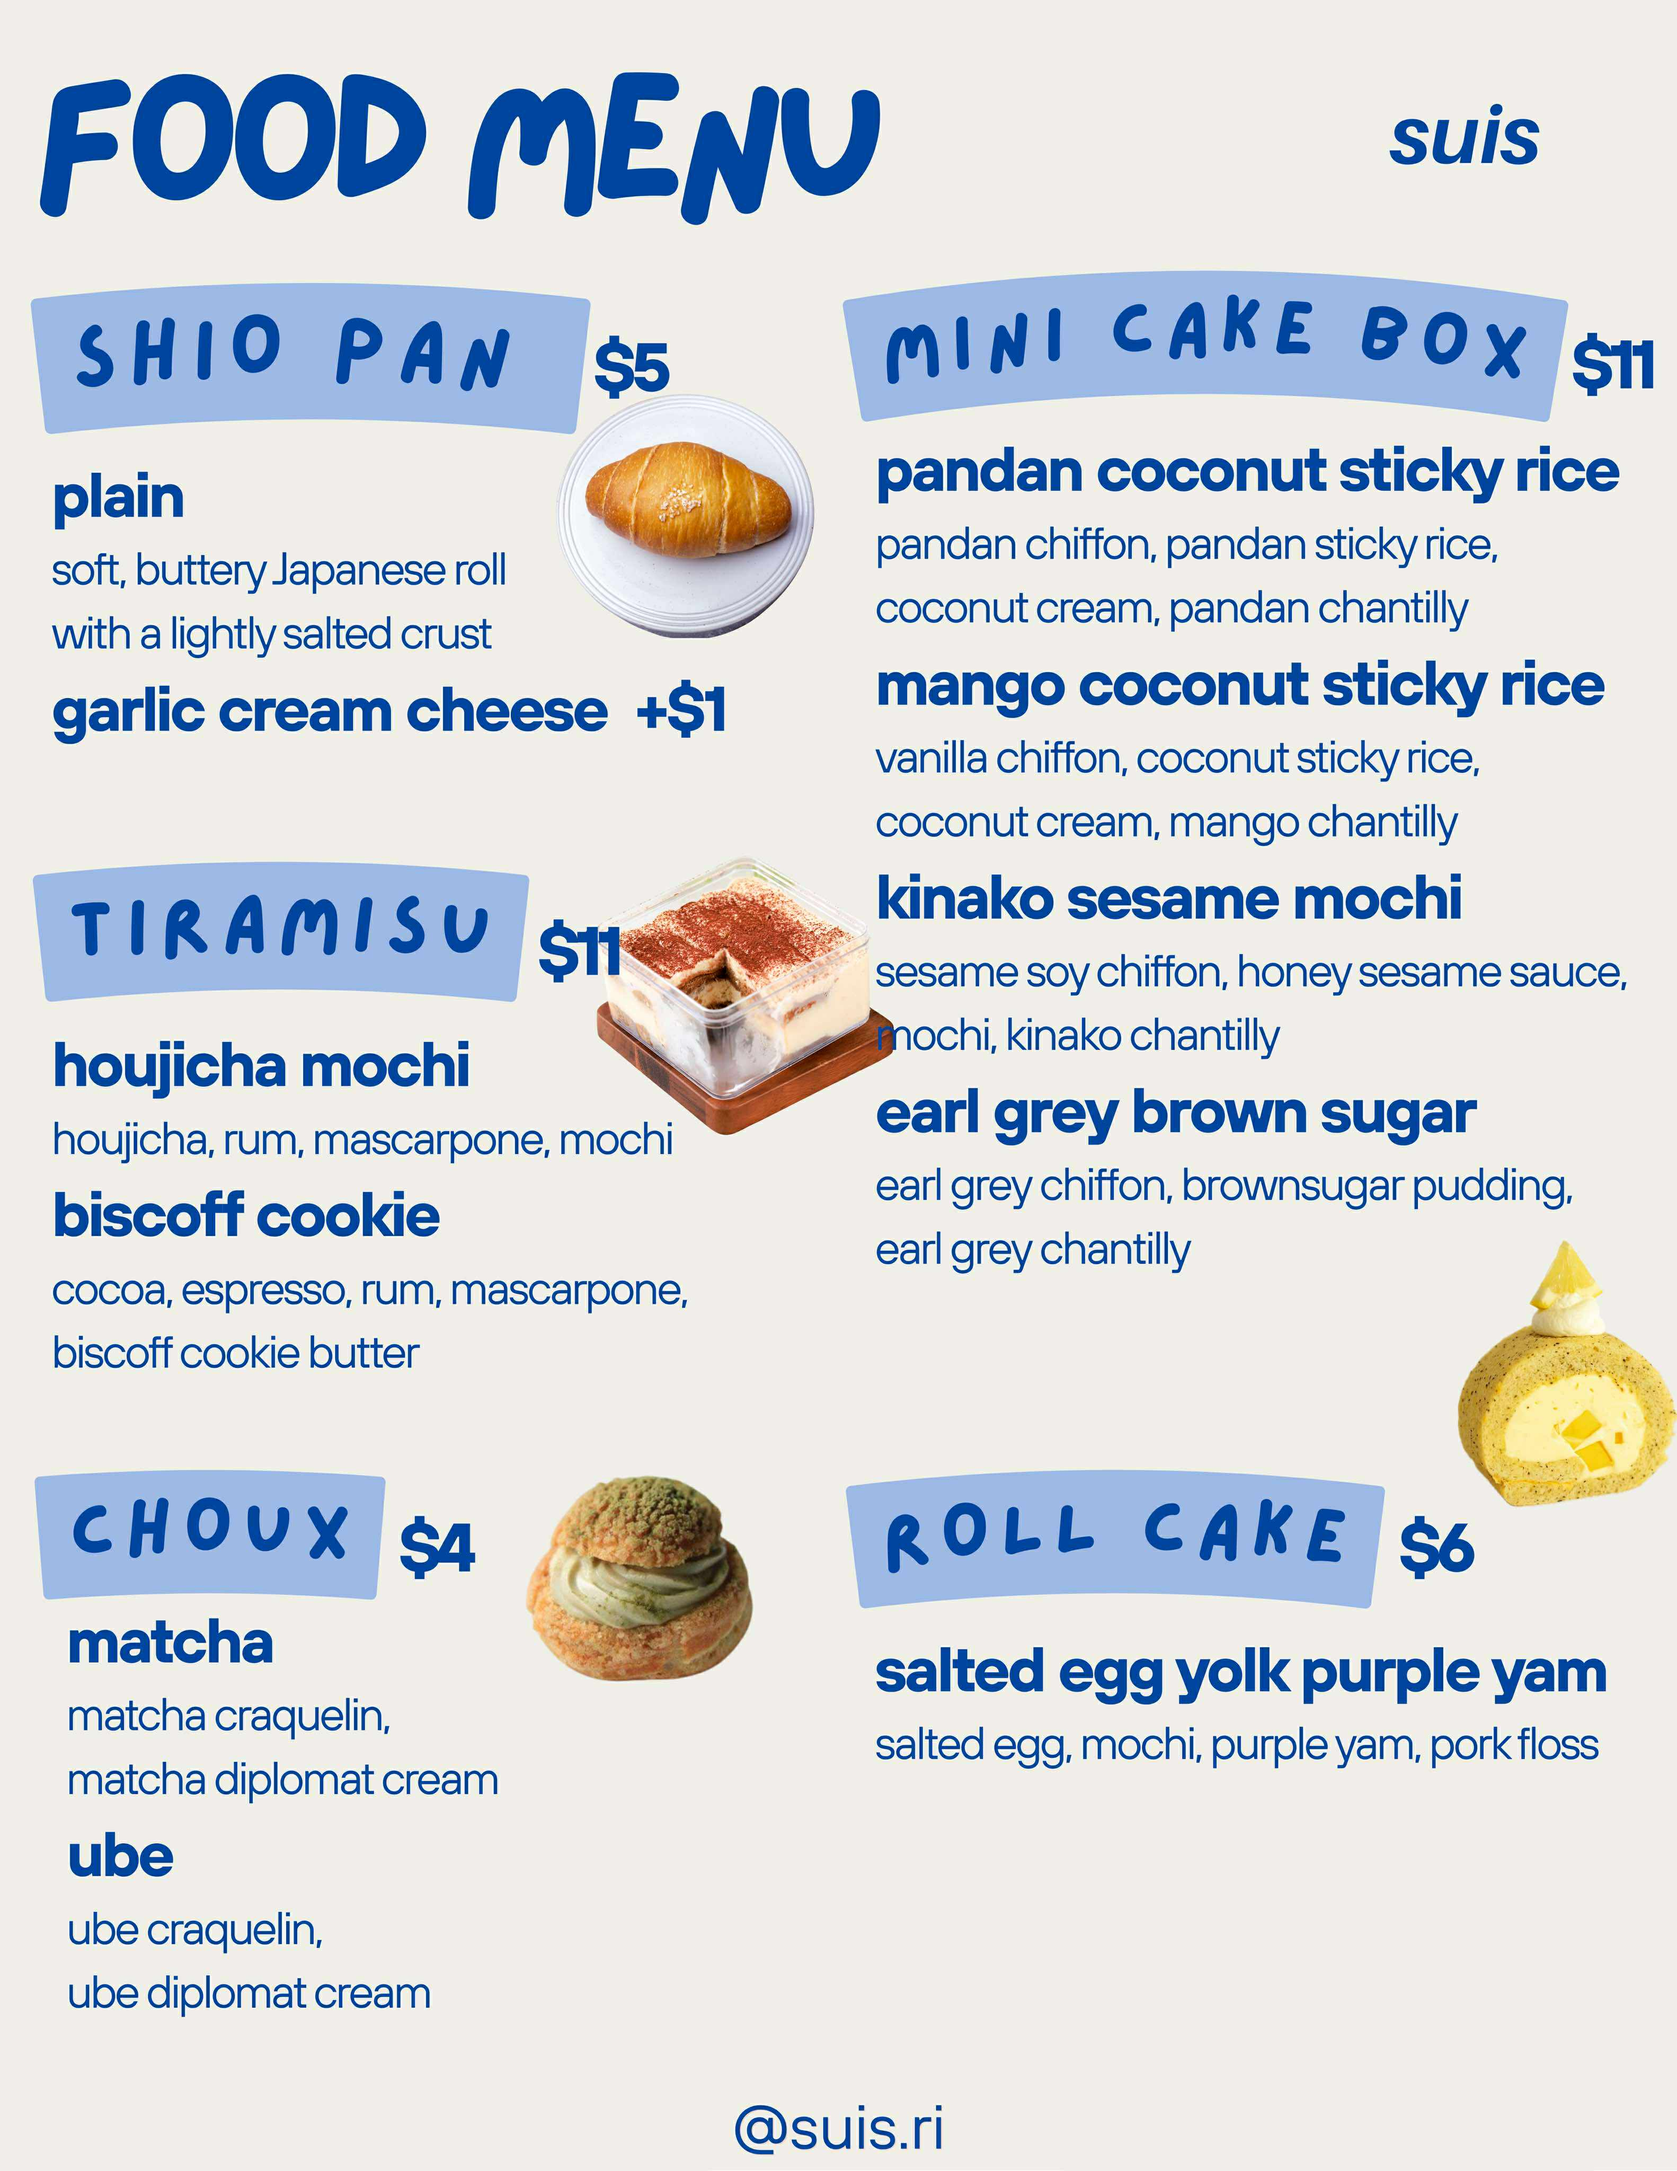
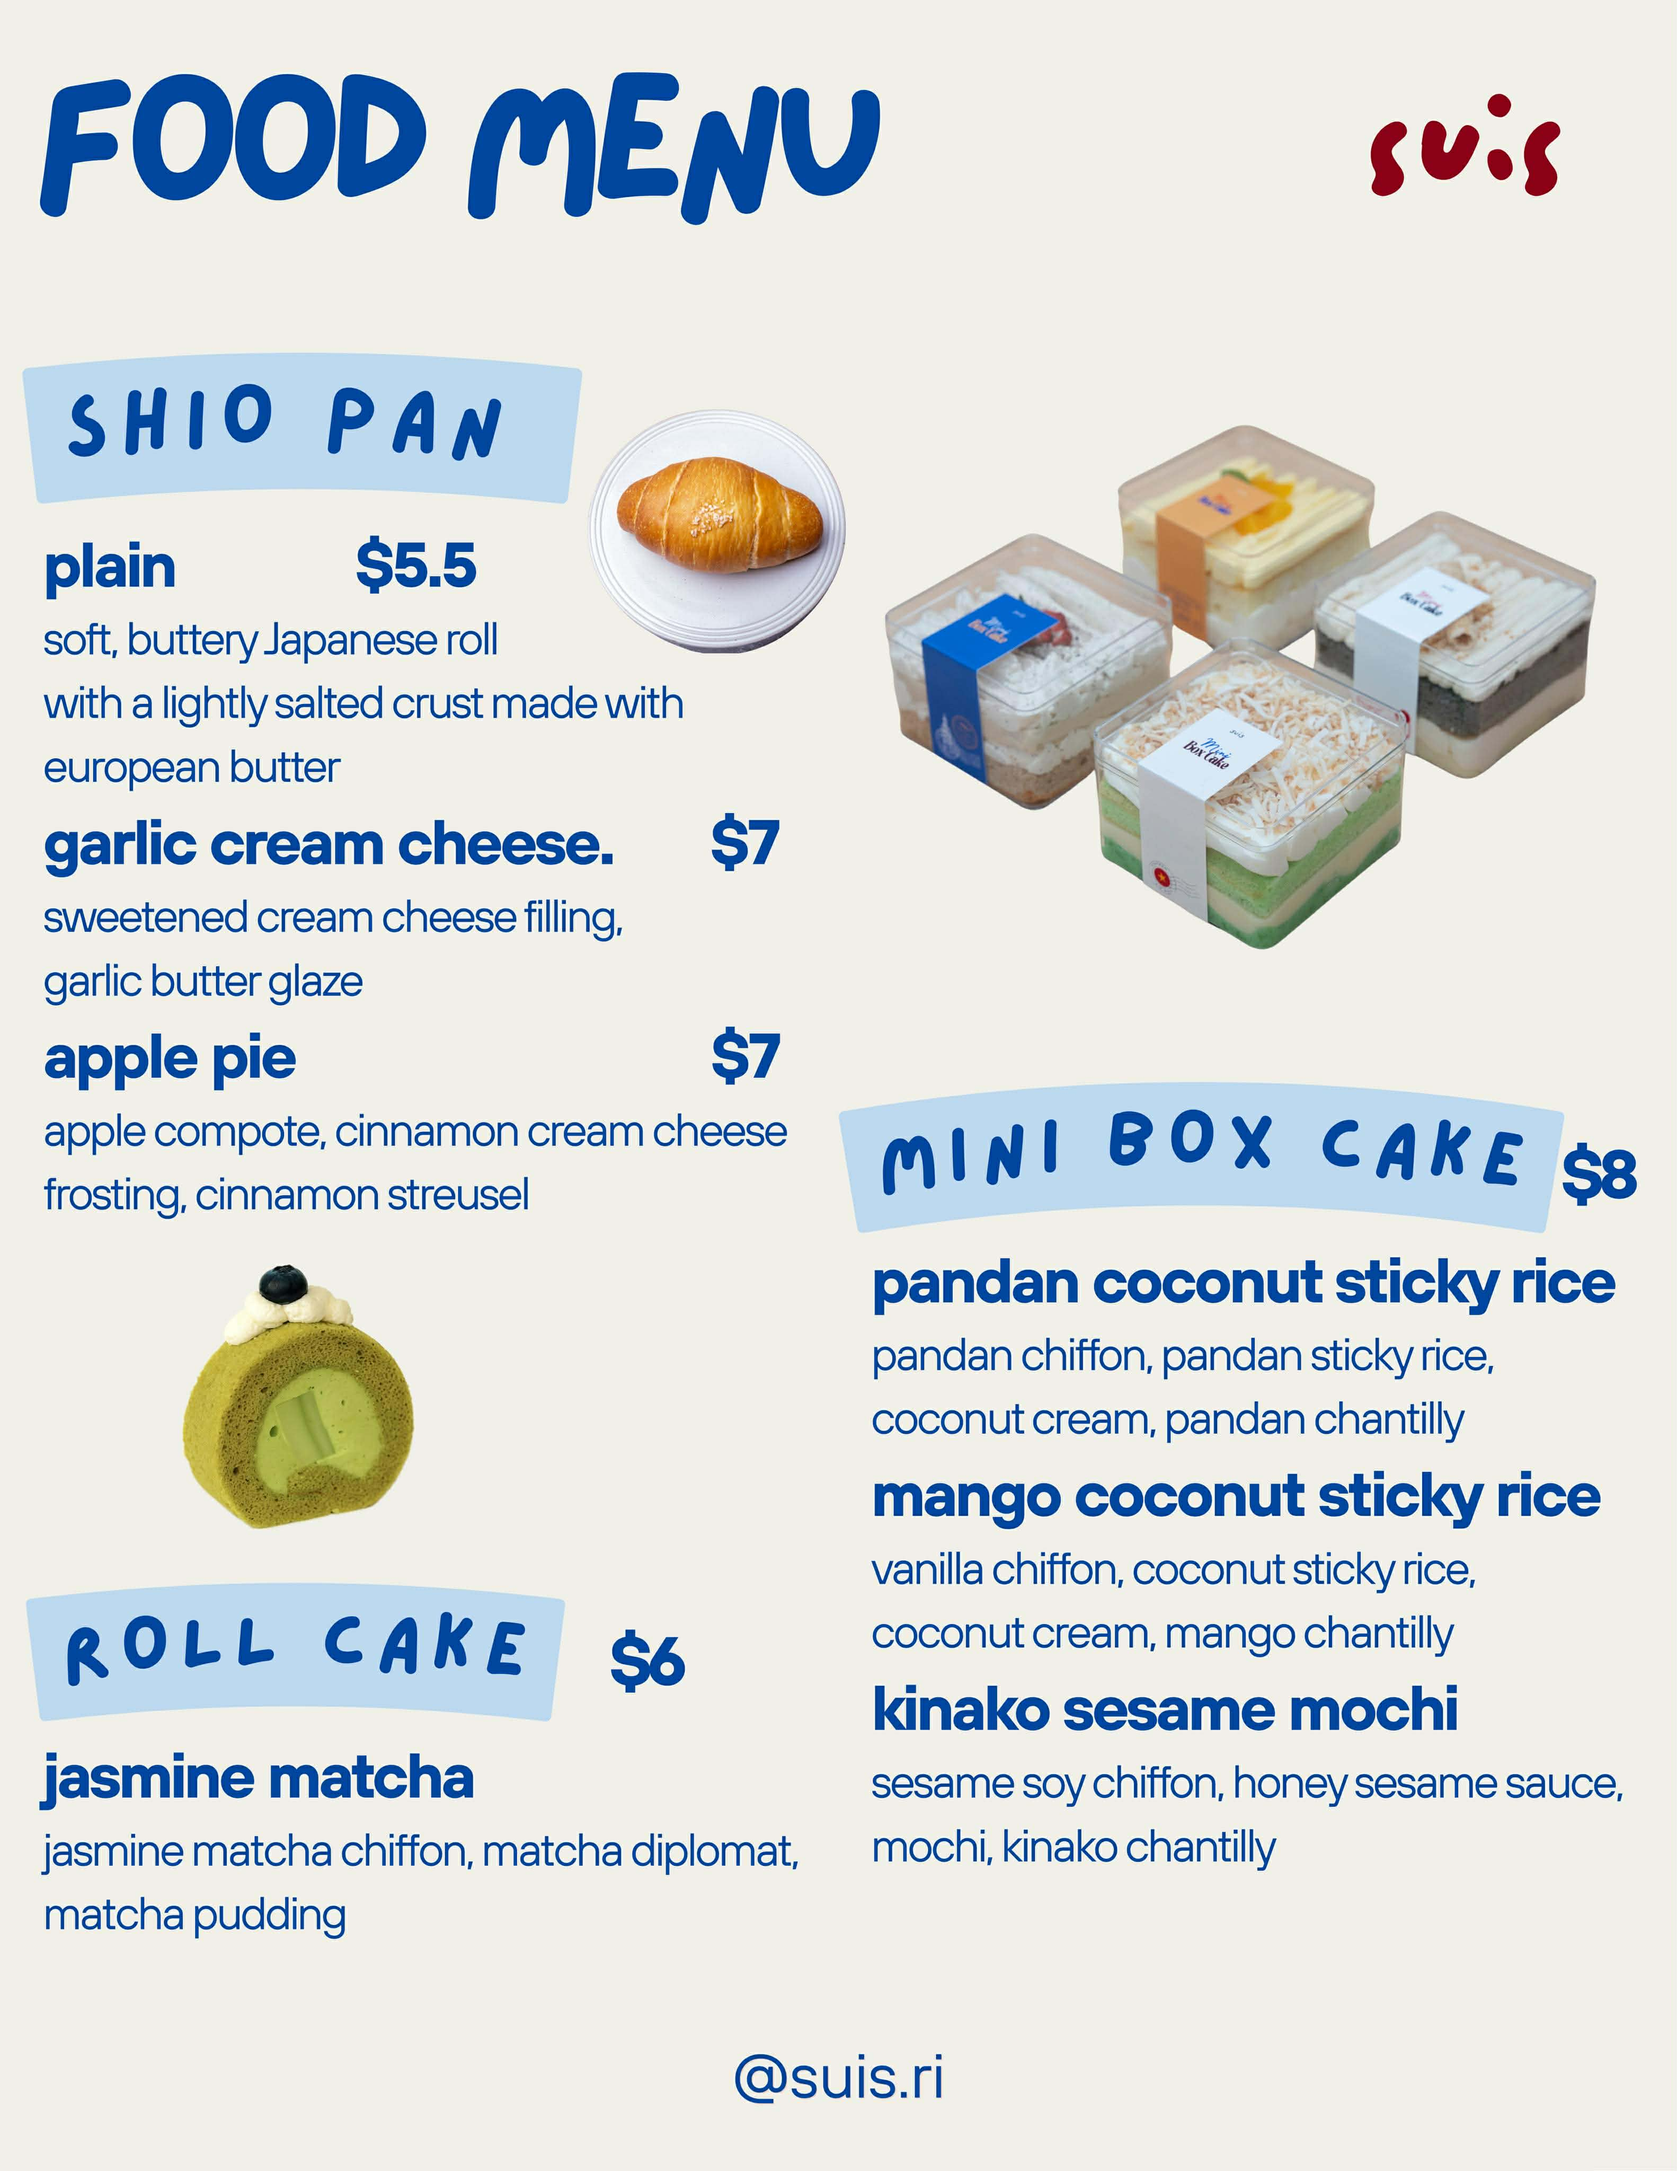
update for pop-up

diff --git a/app/about/page.tsx b/app/about/page.tsx
@@ -8,7 +8,7 @@ export default function AboutPage() {
       <header className="text-center pt-8 pb-4 px-4">
         <Link href="/">
           <Image
-            src="/logo.jpg"
+            src="/logo.png"
             alt="Suis logo"
             width={140}
             height={84}

diff --git a/app/menu/page.tsx b/app/menu/page.tsx
@@ -8,7 +8,7 @@ export default function MenuPage() {
       <header className="text-center pt-8 pb-4 px-4">
         <Link href="/">
           <Image
-            src="/logo.jpg"
+            src="/logo.png"
             alt="Suis logo"
             width={140}
             height={84}

diff --git a/app/page.tsx b/app/page.tsx
@@ -9,7 +9,7 @@ export default function HomePage() {
         {/* Logo */}
         <div className="mb-6">
           <Image
-            src="/logo.jpg"
+            src="/logo.png"
             alt="Suis logo"
             width={200}
             height={120}
